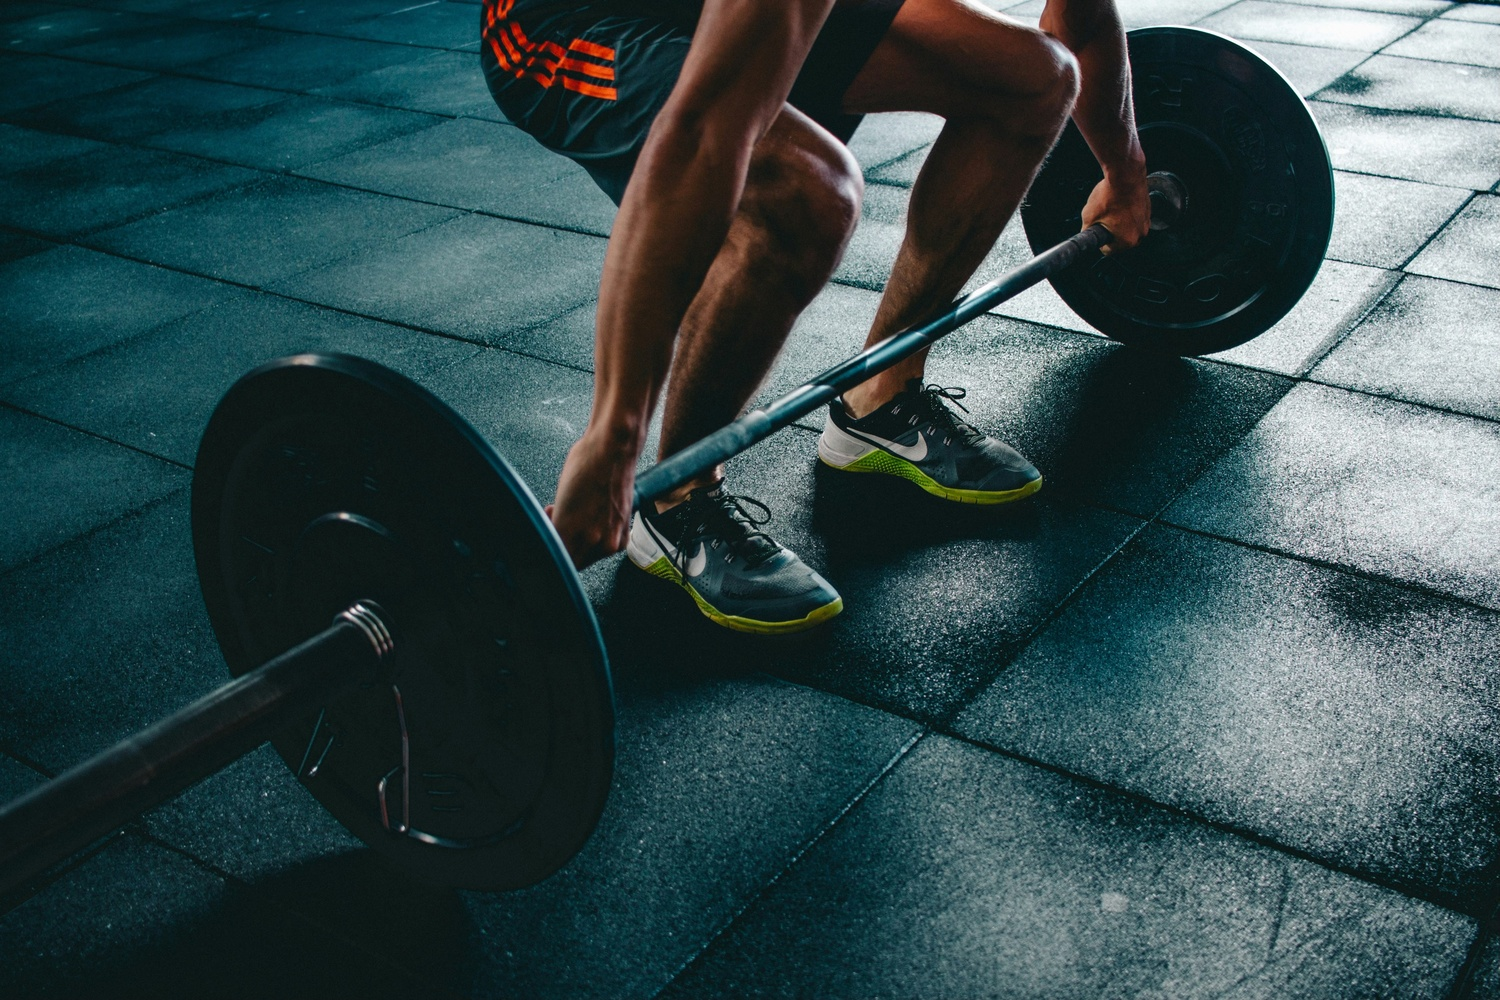
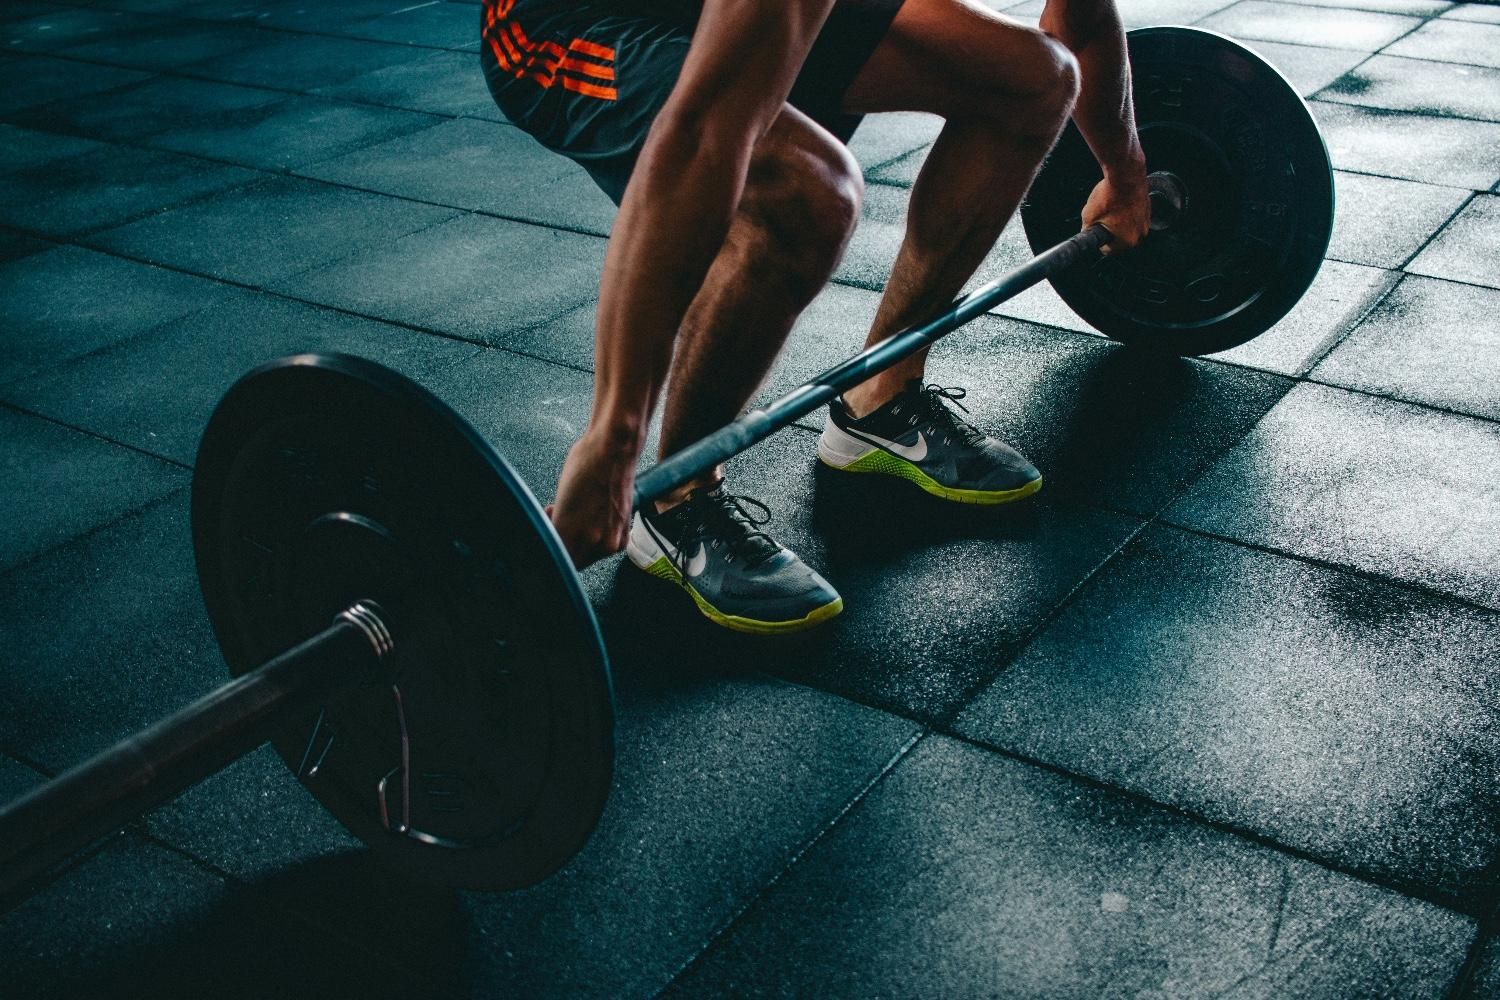
image quality solved

diff --git a/index.html b/index.html
@@ -2,7 +2,7 @@
 <html lang="en">
 <head>
     <link rel = "stylesheet" href="styles.css">
-    <link rel="preload" as="image" href="Brac_University_.JPEG">
+    <link rel="preload" as="image" href="Brac_University_.jpeg">
     <link rel="preload" as="image" href="First_image.jpeg">
     <link rel="preload" as="image" href="Second_image.jpeg">
     <meta charset="UTF-8">

diff --git a/styles.css b/styles.css
@@ -10,7 +10,7 @@ html, body{
    
 }
 .background-image{
-    background-image: url(Brac_University_.JPEG);
+    background-image: url(Brac_University_.jpeg);
     width: 100vw;
     height: 110vh;
     background-size: cover;
